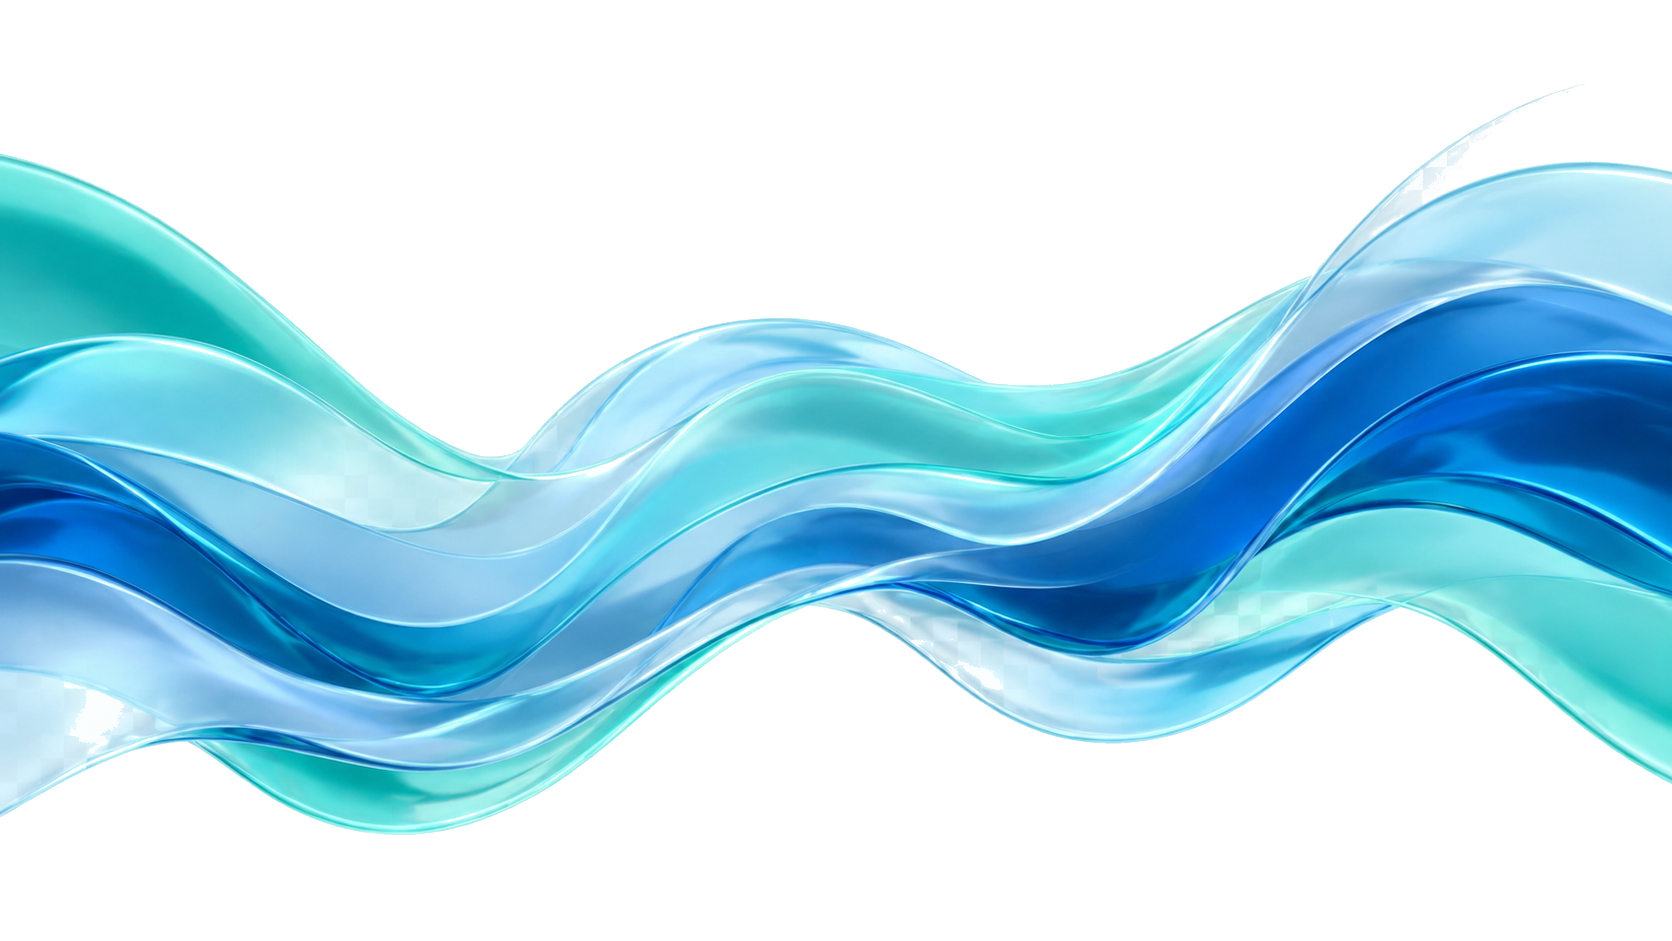
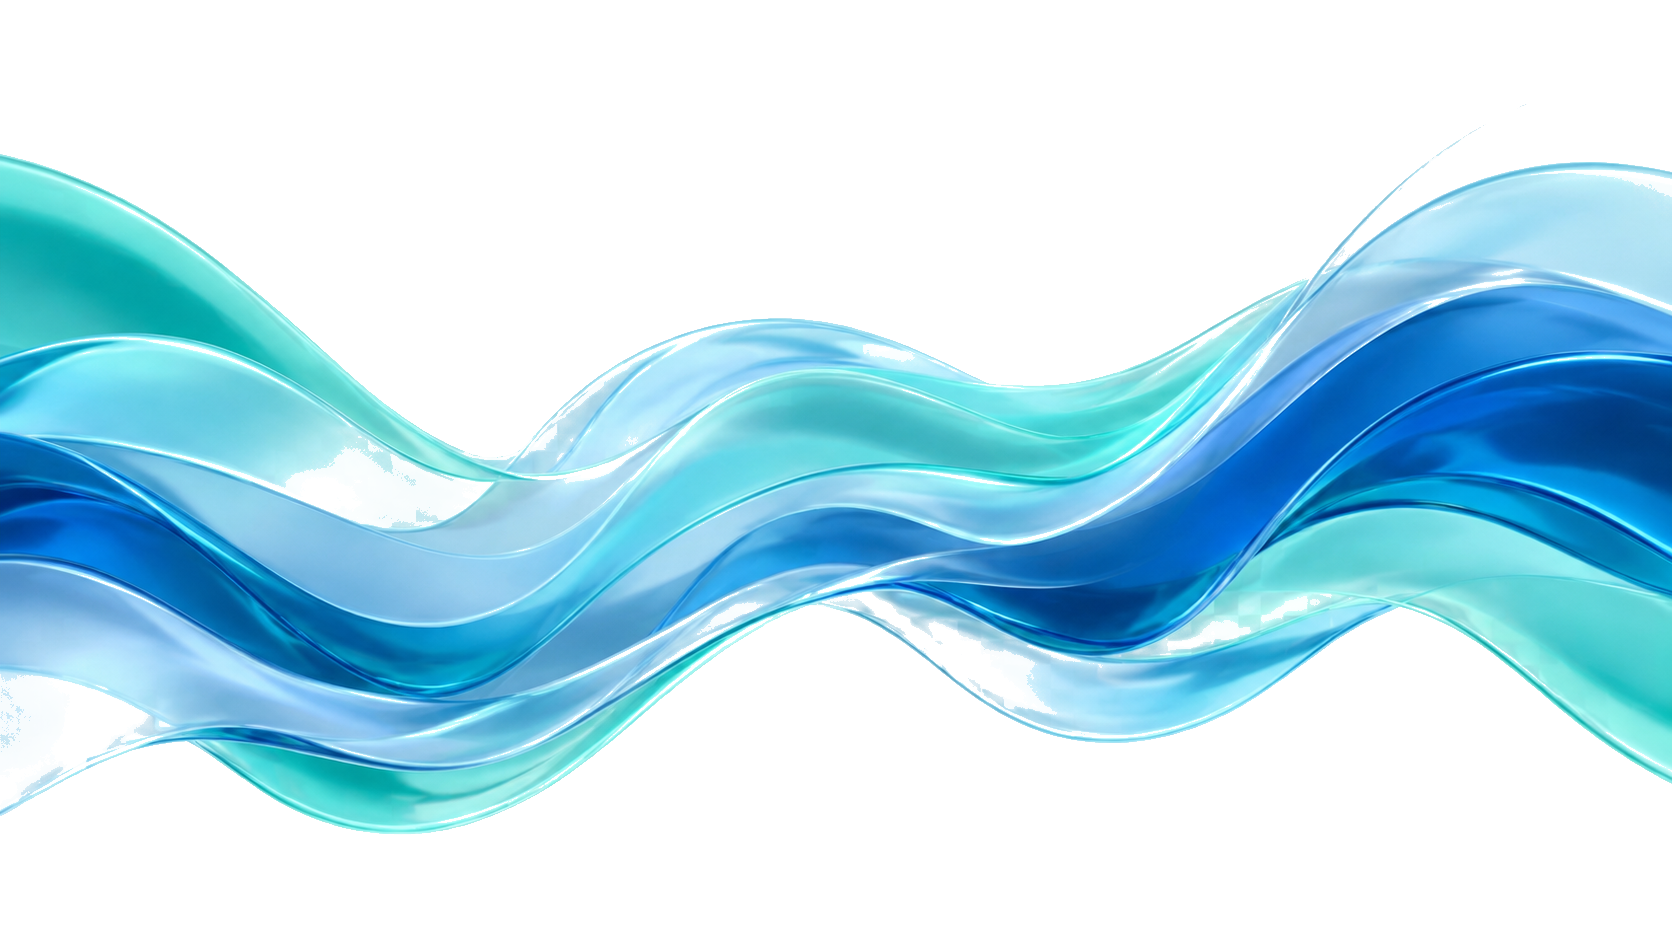
Ajusta fondo fijo de onda
Regenera la onda con transparencia real y ajusta su capa fija para evitar cortes visibles en el hero.\n\nCo-Authored-By: Codex <codex@openai.com>

diff --git a/src/app/layout.tsx b/src/app/layout.tsx
@@ -36,10 +36,10 @@ export default function RootLayout({
           className="fixed inset-0 z-0 pointer-events-none overflow-hidden"
         >
           <div
-            className="absolute left-1/2 top-[8vh] h-[62vh] w-[140vw] -translate-x-1/2 bg-contain bg-center bg-no-repeat opacity-45 sm:top-[4vh] sm:h-[70vh] lg:top-0 lg:h-[78vh]"
+            className="absolute inset-x-[-8vw] top-[5vh] h-[72vh] bg-cover bg-center bg-no-repeat opacity-42 sm:top-[2vh] sm:h-[78vh] lg:top-0 lg:h-[86vh]"
             style={{ backgroundImage: "url('/wave-glass-fixed.png')" }}
           />
-          <div className="absolute inset-0 bg-white/55" />
+          <div className="absolute inset-0 bg-white/60" />
         </div>
         <div className="relative z-10 flex min-h-full flex-col">
           {children}
